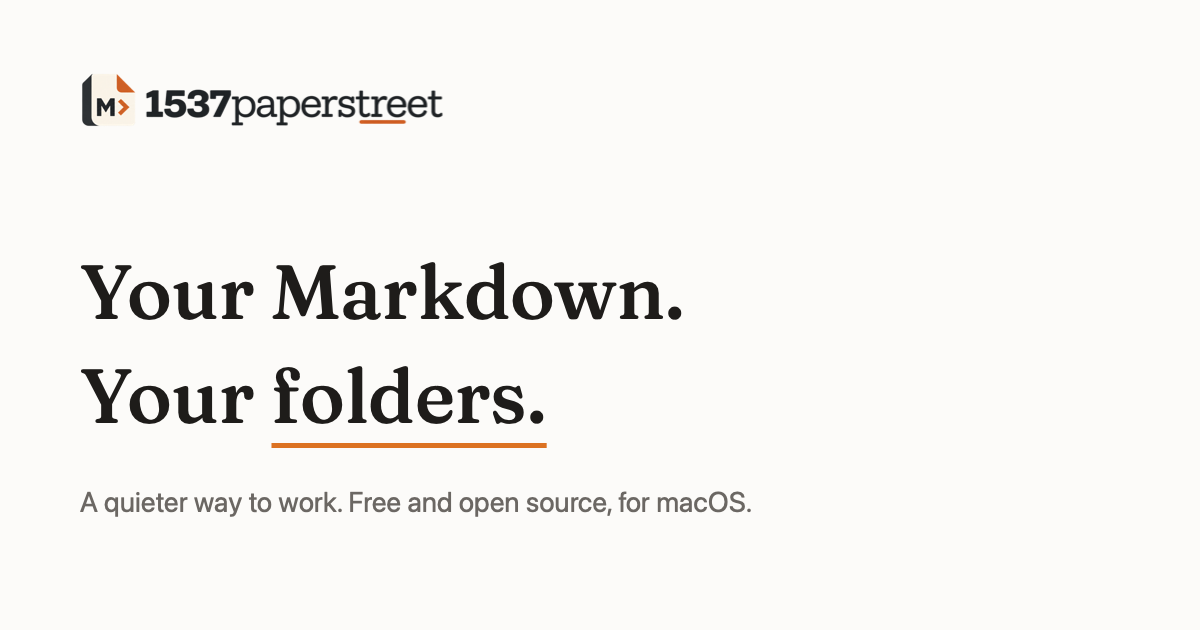
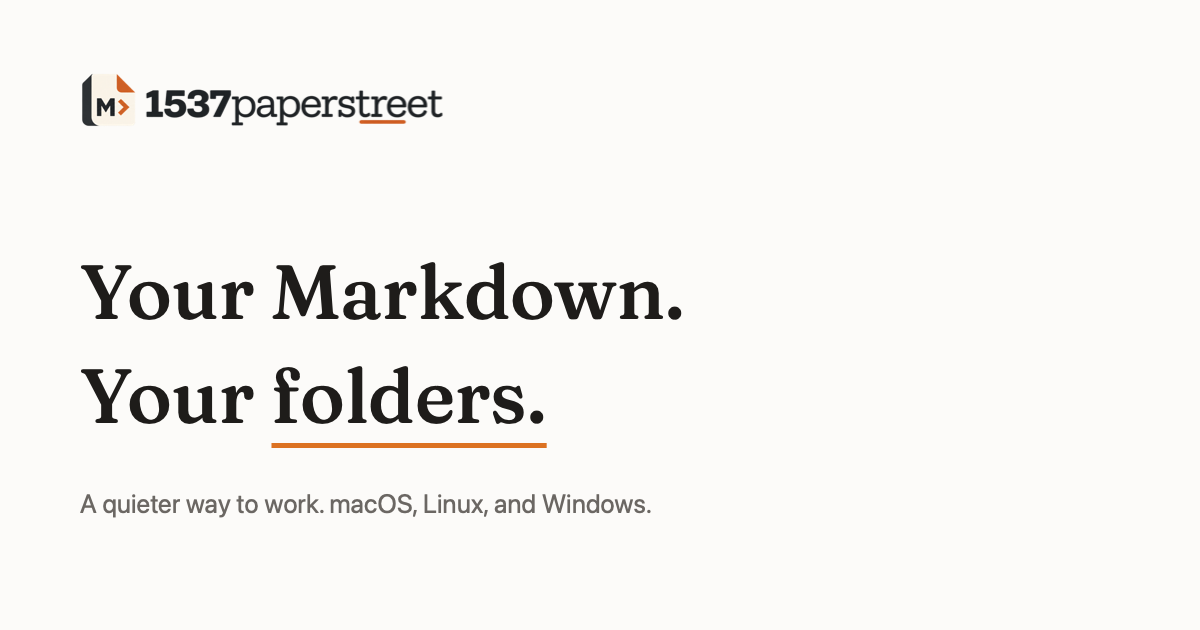
Feature: say the app runs on Linux and Windows too
The marketing page listed macOS only. Releases already include a Linux deb and a Windows installer.

Changed region(s): [[0.0617, 0.7841, 0.6475, 0.8143]]

diff --git a/site/index.html b/site/index.html
@@ -6,7 +6,7 @@
     <title>1537paperstreet — Your Markdown. Your folders.</title>
     <meta
       name="description"
-      content="A free, open-source Markdown reading room for macOS. Open any folder. No vault, no account, no cloud library."
+      content="A free, open-source Markdown reading room for macOS, Linux, and Windows. Open any folder. No vault, no account, no cloud library."
     />
     <link rel="canonical" href="https://1537paperstreet.com/" />
     <meta name="theme-color" content="#fbfaf7" />
@@ -20,7 +20,7 @@
     />
     <meta
       property="og:description"
-      content="A free, open-source Markdown reading room for macOS. Open any folder. No vault, no account, no cloud library."
+      content="A free, open-source Markdown reading room for macOS, Linux, and Windows. Open any folder. No vault, no account, no cloud library."
     />
     <meta property="og:url" content="https://1537paperstreet.com/" />
     <meta
@@ -34,7 +34,7 @@
     />
     <meta
       name="twitter:description"
-      content="A free, open-source Markdown reading room for macOS. Open any folder. No vault, no account, no cloud library."
+      content="A free, open-source Markdown reading room for macOS, Linux, and Windows. Open any folder. No vault, no account, no cloud library."
     />
     <meta
       name="twitter:image"
@@ -64,14 +64,14 @@
         "@type": "SoftwareApplication",
         "name": "1537paperstreet",
         "applicationCategory": "DeveloperApplication",
-        "operatingSystem": "macOS",
+        "operatingSystem": ["macOS", "Linux", "Windows"],
         "offers": {
           "@type": "Offer",
           "price": "0",
           "priceCurrency": "USD"
         },
         "url": "https://1537paperstreet.com/",
-        "description": "A free, open-source Markdown reading room for macOS. Open any folder. No vault, no account, no cloud library."
+        "description": "A free, open-source Markdown reading room for macOS, Linux, and Windows. Open any folder. No vault, no account, no cloud library."
       }
     </script>
   </head>
@@ -95,7 +95,9 @@
     </header>
     <main id="content">
       <section class="hero wrap" id="reading" aria-labelledby="hero-title">
-        <p class="kicker rise">Free · Open source · macOS</p>
+        <p class="kicker rise">
+          Free · Open source · macOS, Linux, and Windows
+        </p>
         <h1 id="hero-title" class="rise rise-2">
           Your Markdown.<br />
           Your <span class="mark">folders.</span>
@@ -108,14 +110,14 @@
           <a
             class="button"
             href="https://github.com/mpakus/1537paperstreet/releases/latest"
-            >Download for macOS</a
+            >Download</a
           >
           <a class="quiet" href="https://github.com/mpakus/1537paperstreet"
             >View the source</a
           >
         </div>
         <p class="fine rise rise-4">
-          macOS 12 or newer · Universal · Signed and notarized
+          macOS 12 or newer · Linux .deb · Windows installer
         </p>
         <figure class="shot stage rise rise-4">
           <img
@@ -148,8 +150,8 @@
           <div>
             <p class="fact-title">Diagrams and math</p>
             <p>
-              Mermaid and KaTeX render on the Mac, with the rest of GitHub
-              Flavored Markdown.
+              Mermaid and KaTeX render locally, with the rest of GitHub Flavored
+              Markdown.
             </p>
           </div>
           <div>
@@ -326,15 +328,15 @@
             <li>
               <h3>No account</h3>
               <p>
-                Reading, search, themes, and diagrams run on the Mac. The only
-                optional network request is Check for Updates.
+                Reading, search, themes, and diagrams run on your computer. The
+                only optional network request is Check for Updates.
               </p>
             </li>
             <li>
               <h3>No vault</h3>
               <p>
                 Open a folder, or drop one on the window. The same files stay
-                available to Git, Finder, and any other editor.
+                available to Git, your file manager, and any other editor.
               </p>
             </li>
             <li>
@@ -354,16 +356,17 @@
         id="download"
         aria-labelledby="download-title"
       >
-        <h2 id="download-title">Free, on your Mac.</h2>
+        <h2 id="download-title">Free, on macOS, Linux, and Windows.</h2>
         <p>
-          macOS 12 or newer, Apple Silicon or Intel. Current releases are
-          Developer ID signed, notarized, and checked by Gatekeeper.
+          macOS 12 or newer, Apple Silicon and Intel. A Linux .deb for x86_64,
+          and a Windows installer. The macOS build is signed and notarized. PDF
+          export, and installing an update from inside the app, are on macOS.
         </p>
         <div class="actions">
           <a
             class="button"
             href="https://github.com/mpakus/1537paperstreet/releases/latest"
-            >Download for macOS</a
+            >Download</a
           >
           <a
             class="quiet"
